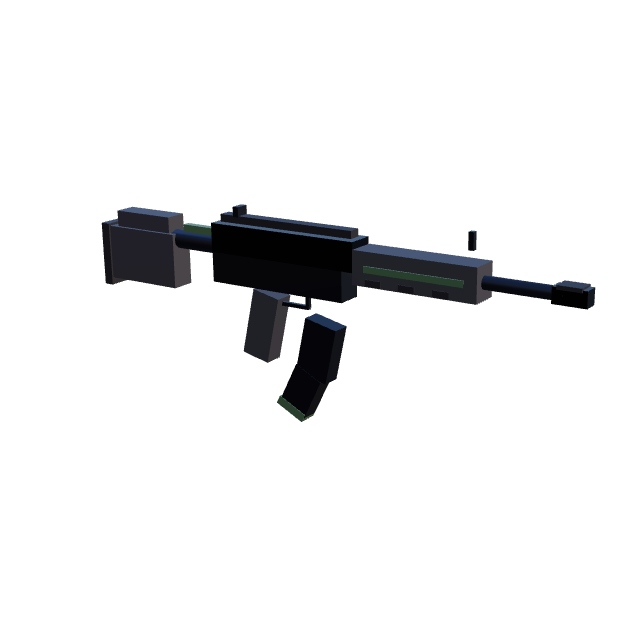
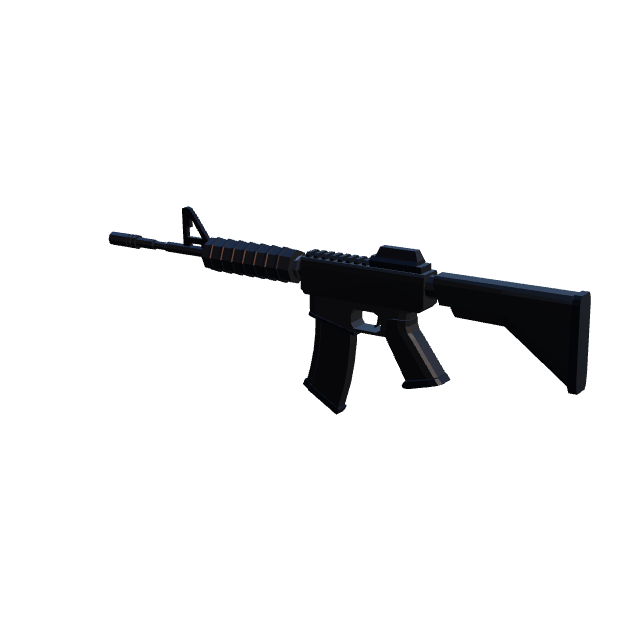
feat(art): bake real gun GLBs into the shop instead of box meshes
The procedural GunMesh reads as a toy no matter how it's shaded — the fix is a
real model. The bake page now renders a gun's real GLB when one exists (the same
rifle.glb / blaster.glb the fight uses), falling back to makeGunMesh otherwise.
Assault Rifle now bakes from the real M4 model and the Valor Prototype from the
sci-fi blaster — both read as actual weapons, and the AR matches what you hold
in-game. Sidearm / SMG / Marksman still need their own models (next).

Changed region(s): [[0.1562, 0.3125, 0.9375, 0.6562]]

diff --git a/apps/web/src/app/dev/bake-items/page.tsx b/apps/web/src/app/dev/bake-items/page.tsx
@@ -9,13 +9,45 @@
 import { Suspense, useLayoutEffect, useMemo } from 'react';
 import { useSearchParams } from 'next/navigation';
 import { Canvas, useThree } from '@react-three/fiber';
-import { Environment } from '@react-three/drei';
+import { Environment, useGLTF } from '@react-three/drei';
 import * as THREE from 'three';
 import { makeGunMesh } from '@/engine/scene/GunMesh';
 import { makeItemMesh, type ItemMeshId, ITEM_MESH_IDS } from '@/engine/scene/ItemMesh';
 import type { GunId } from '@/engine/combat/GunStats';
 
 const GUN_IDS: GunId[] = ['sidearm', 'smg', 'assault_rifle', 'marksman', 'legendary'];
+
+/**
+ * Guns that have a REAL modeled GLB instead of the procedural box mesh. These
+ * bake from the same assets the fight uses, so the shop shows the real weapon.
+ * (Only two base models exist today; the rest still fall back to makeGunMesh.)
+ */
+const GUN_GLB: Partial<Record<GunId, string>> = {
+  assault_rifle: '/models/guns/rifle.glb',
+  legendary: '/models/guns/blaster.glb',
+};
+
+/** Centre a posed holder on its bbox and return the hero-shot camera distance. */
+function frameHolder(holder: THREE.Group, obj: THREE.Object3D): number {
+  holder.updateMatrixWorld(true);
+  const box = new THREE.Box3().setFromObject(holder);
+  obj.position.sub(box.getCenter(new THREE.Vector3()));
+  holder.updateMatrixWorld(true);
+  const size = new THREE.Box3().setFromObject(holder).getSize(new THREE.Vector3());
+  const maxDim = Math.max(size.x, size.y, size.z);
+  return (maxDim / 2) / Math.tan((30 * Math.PI) / 360) * 1.18;
+}
+
+function useHeroCamera(dist: number) {
+  const { camera } = useThree();
+  useLayoutEffect(() => {
+    const cam = camera as THREE.PerspectiveCamera;
+    cam.fov = 30;
+    cam.position.set(dist * 0.18, dist * 0.22, dist);
+    cam.lookAt(0, 0, 0);
+    cam.updateProjectionMatrix();
+  }, [camera, dist]);
+}
 
 function buildAsset(name: string): { obj: THREE.Group; isGun: boolean } {
   if (name.startsWith('gun_')) {
@@ -27,7 +59,8 @@ function buildAsset(name: string): { obj: THREE.Group; isGun: boolean } {
   return { obj: makeGunMesh('sidearm'), isGun: true };
 }
 
-function Subject({ name }: { name: string }) {
+/** Procedural mesh / item subject. */
+function MeshSubject({ name }: { name: string }) {
   const staged = useMemo(() => {
     const { obj, isGun } = buildAsset(name);
     // Hero pose: guns show a 3/4 side profile with the muzzle to the right;
@@ -35,26 +68,41 @@ function Subject({ name }: { name: string }) {
     obj.rotation.set(isGun ? 0.08 : 0.04, isGun ? Math.PI / 2 - 0.42 : -0.45, 0);
     const holder = new THREE.Group();
     holder.add(obj);
-    holder.updateMatrixWorld(true);
-    // Centre on the bounding box so every asset fills the frame the same way.
-    const box = new THREE.Box3().setFromObject(holder);
-    const c = box.getCenter(new THREE.Vector3());
-    obj.position.sub(c);
-    const size = box.getSize(new THREE.Vector3());
-    const maxDim = Math.max(size.x, size.y, size.z);
-    return { holder, dist: (maxDim / 2) / Math.tan((30 * Math.PI) / 360) * 1.18 };
+    return { holder, dist: frameHolder(holder, obj) };
   }, [name]);
-
-  const { camera } = useThree();
-  useLayoutEffect(() => {
-    const cam = camera as THREE.PerspectiveCamera;
-    cam.fov = 30;
-    cam.position.set(staged.dist * 0.18, staged.dist * 0.22, staged.dist);
-    cam.lookAt(0, 0, 0);
-    cam.updateProjectionMatrix();
-  }, [camera, staged]);
-
+  useHeroCamera(staged.dist);
   return <primitive object={staged.holder} />;
+}
+
+/** Real GLB weapon subject: normalise the model (longest axis = barrel → +Z,
+ *  unit length, centred), then pose it exactly like a mesh gun. */
+function GlbSubject({ url }: { url: string }) {
+  const { scene } = useGLTF(url);
+  const staged = useMemo(() => {
+    const obj = scene.clone(true);
+    obj.rotation.set(0, 0, 0); obj.position.set(0, 0, 0); obj.scale.set(1, 1, 1);
+    // Longest axis → +Z (the barrel), so the hero pose lands the same as the meshes.
+    const size = new THREE.Box3().setFromObject(obj).getSize(new THREE.Vector3());
+    if (size.x >= size.y && size.x >= size.z) obj.rotateY(-Math.PI / 2);
+    else if (size.y >= size.x && size.y >= size.z) obj.rotateX(Math.PI / 2);
+    obj.rotateY(Math.PI); // face muzzle the hero direction
+    obj.updateMatrixWorld(true);
+    obj.traverse((o) => { const m = o as THREE.Mesh; if (m.isMesh) m.castShadow = true; });
+
+    const posed = new THREE.Group();
+    posed.add(obj);
+    posed.rotation.set(0.08, Math.PI / 2 - 0.42, 0); // same 3/4 hero angle as mesh guns
+    const holder = new THREE.Group();
+    holder.add(posed);
+    return { holder, dist: frameHolder(holder, posed) };
+  }, [scene]);
+  useHeroCamera(staged.dist);
+  return <primitive object={staged.holder} />;
+}
+
+function Subject({ name }: { name: string }) {
+  const glb = name.startsWith('gun_') ? GUN_GLB[name.slice(4) as GunId] : undefined;
+  return glb ? <GlbSubject url={glb} /> : <MeshSubject name={name} />;
 }
 
 export default function BakeItemsPage() {
@@ -101,7 +149,9 @@ function BakeInner() {
         <directionalLight position={[3, 3.5, 3]} intensity={2.6} color={'#ffe9cf'} />
         <directionalLight position={[-3.5, 2, -3]} intensity={2.0} color={'#8fb4ff'} />
         <directionalLight position={[0, -2.5, 1.5]} intensity={0.35} color={'#ffffff'} />
-        <Subject name={asset} />
+        <Suspense fallback={null}>
+          <Subject name={asset} />
+        </Suspense>
       </Canvas>
       {/* index for the bake script */}
       <div id="asset-list" style={{ display: 'none' }}>{all.join(',')}</div>
